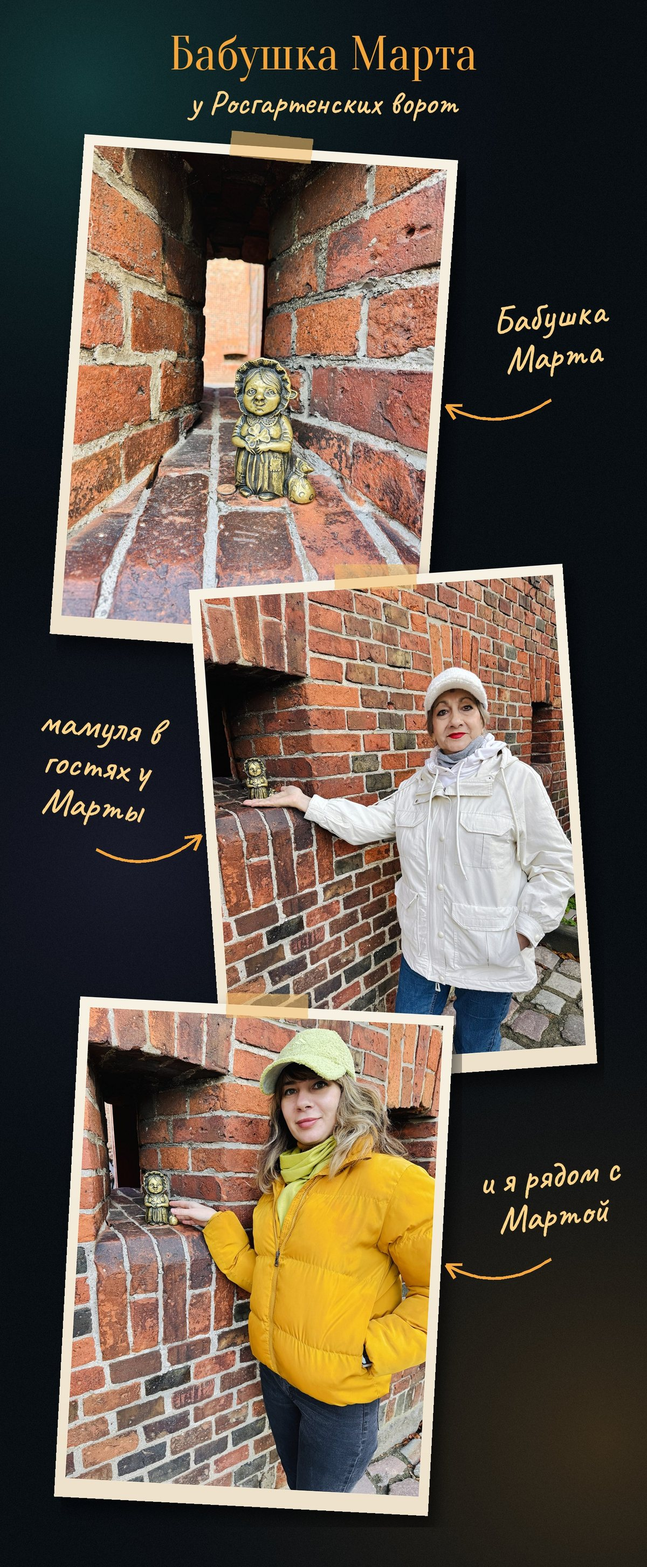
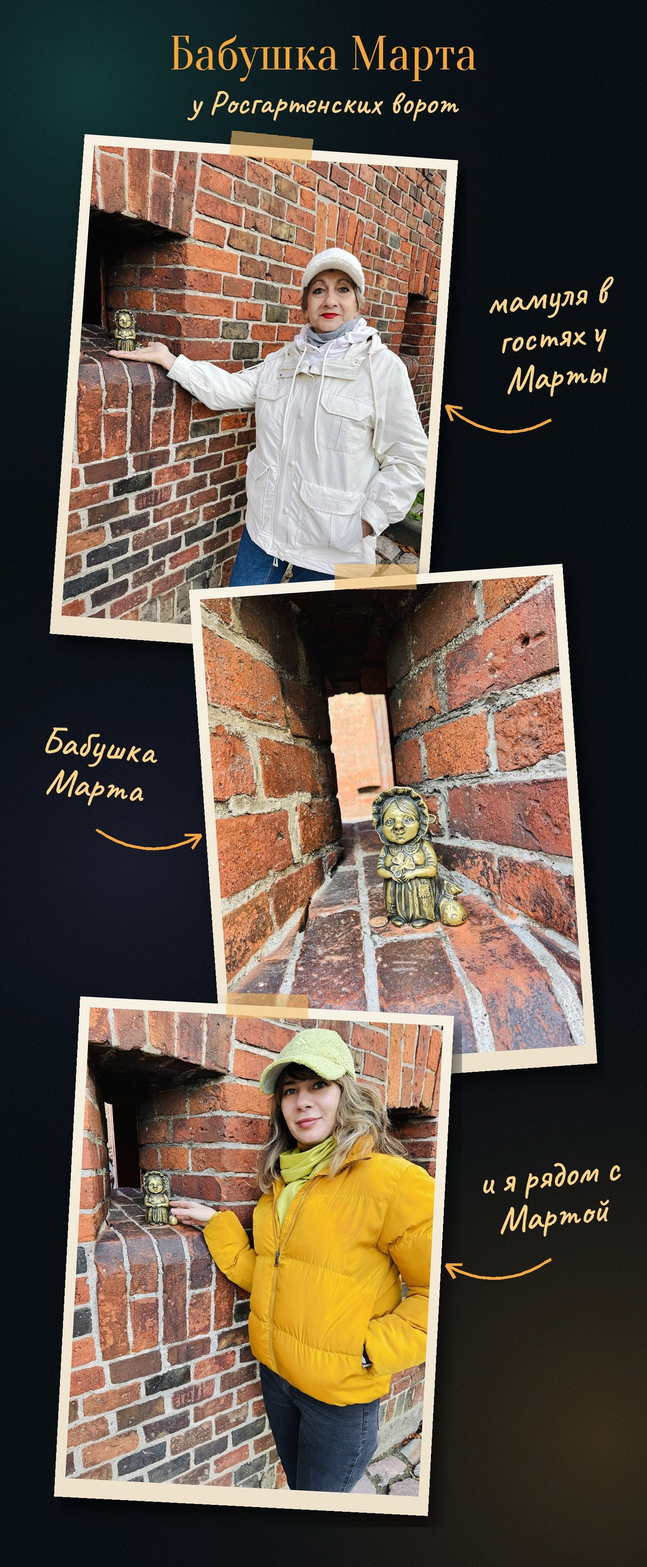
Альбом «Калининград»: страница «Бабушка Марта» — Марта в центре
По просьбе: сверху «мамуля в гостях у Марты», в центре Бабушка Марта, снизу «и я рядом с Мартой».

Claude-Session: https://claude.ai/code/session_01BUmNQ2Kk9fTi5P6tnA3gYJ

Changed region(s): [[0.0617, 0.0929, 0.9558, 0.6813]]

diff --git a/kaliningrad/album/index.html b/kaliningrad/album/index.html
@@ -636,7 +636,7 @@ body.picking .wrap{padding-bottom:calc(var(--nav-h) + 230px + env(safe-area-inse
  {"id": "d0-20", "day": 0, "src": "photos/d0-20.jpg", "thumb": "photos/t/d0-20.jpg", "w": 1500, "h": 2000, "place": "kant", "title": "Могила Иммануила Канта", "date": "2026-10-10"},
  {"id": "d0-16", "day": 0, "src": "photos/d0-16.jpg", "thumb": "photos/t/d0-16.jpg", "w": 1500, "h": 2000, "town": "kgd", "title": "Мамуля на вечерней прогулке", "date": "2026-10-10"},
  {"id": "d1-68", "day": 1, "src": "photos/d1-68.jpg", "thumb": "photos/t/d1-68.jpg", "w": 1200, "h": 2632, "place": "korol", "title": "Городские ворота", "date": "2026-10-11", "collage": true},
- {"id": "d1-69", "day": 1, "src": "photos/d1-69.jpg", "thumb": "photos/t/d1-69.jpg", "w": 1200, "h": 2906, "town": "kgd", "title": "Бабушка Марта", "date": "2026-10-11", "collage": true},
+ {"id": "d1-69", "day": 1, "src": "photos/d1-69.jpg?v=2", "thumb": "photos/t/d1-69.jpg?v=2", "w": 1200, "h": 2906, "town": "kgd", "title": "Бабушка Марта", "date": "2026-10-11", "collage": true},
  {"id": "d1-05", "day": 1, "src": "photos/d1-05.jpg", "thumb": "photos/t/d1-05.jpg", "w": 1500, "h": 2000, "town": "kgd", "title": "Бабушка Марта — взгляд сквозь стену", "date": "2026-10-11"},
  {"id": "d1-06", "day": 1, "src": "photos/d1-06.jpg", "thumb": "photos/t/d1-06.jpg", "w": 1500, "h": 2000, "place": "oz", "title": "Экскурсия у Верхнего озера", "date": "2026-10-11"},
  {"id": "d1-08", "day": 1, "type": "video", "src": "photos/d1-08.mp4?v=3", "poster": "photos/d1-08.jpg", "thumb": "photos/t/d1-08.jpg", "w": 720, "h": 1280, "dur": 5.5, "place": "oz", "title": "Шаг за шагом вдоль озера", "date": "2026-10-11", "time": "10:24", "muted": true},
